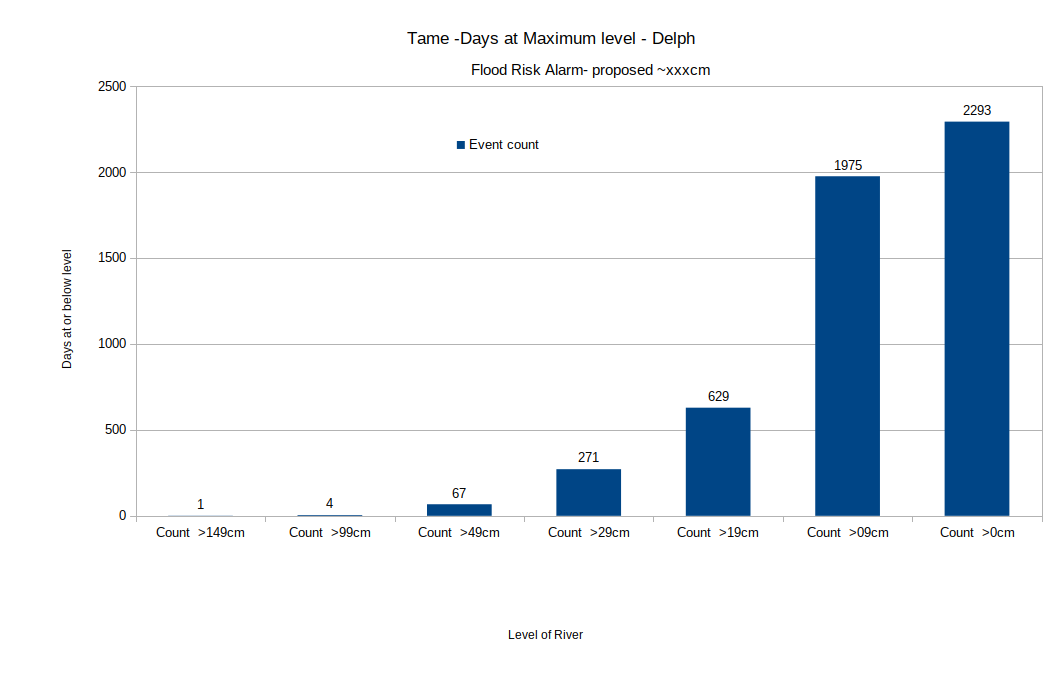
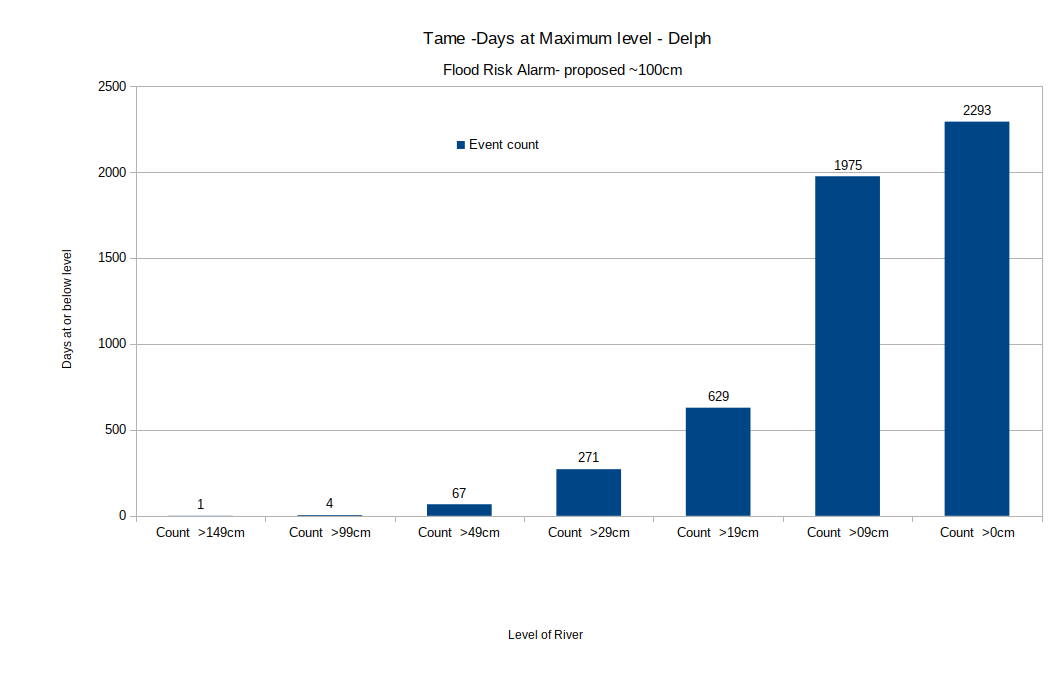
Produced all charts for review and included some in Readme

Changed region(s): [[0.3954, 0.0307, 0.6692, 0.1226]]

diff --git a/README.md b/README.md
@@ -163,7 +163,7 @@ There is significant danger, buildings have fell down [Ref17] : July 2008 Mill c
 
 ### Further work : 
 
-**Monitor raw data not daily avaerages**
+**Monitor raw river data not daily averages**
 
 Raw data from the Tame may be examined, once it is released, to measure any increase in rate of level increase.  
 
